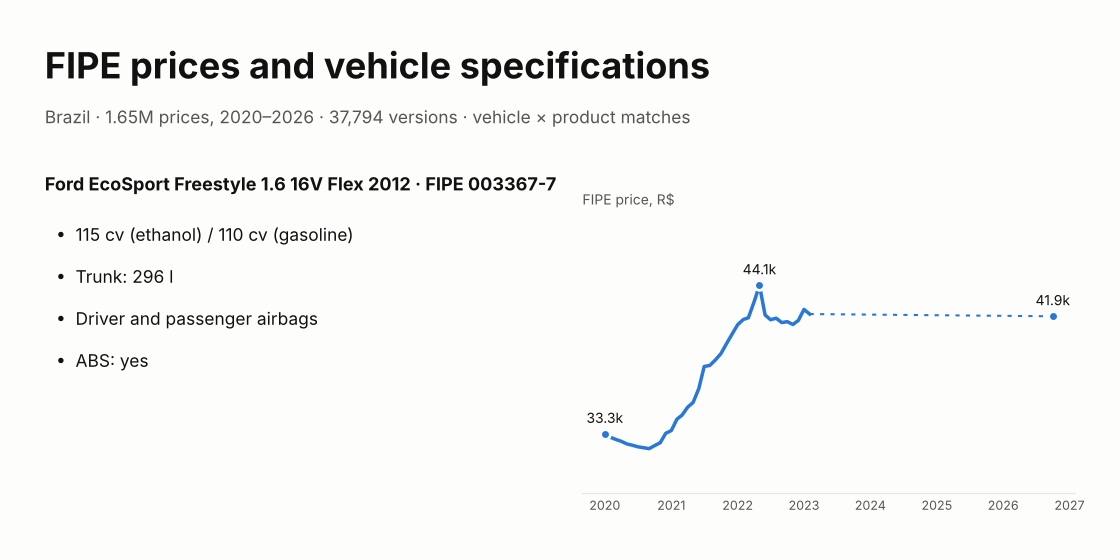
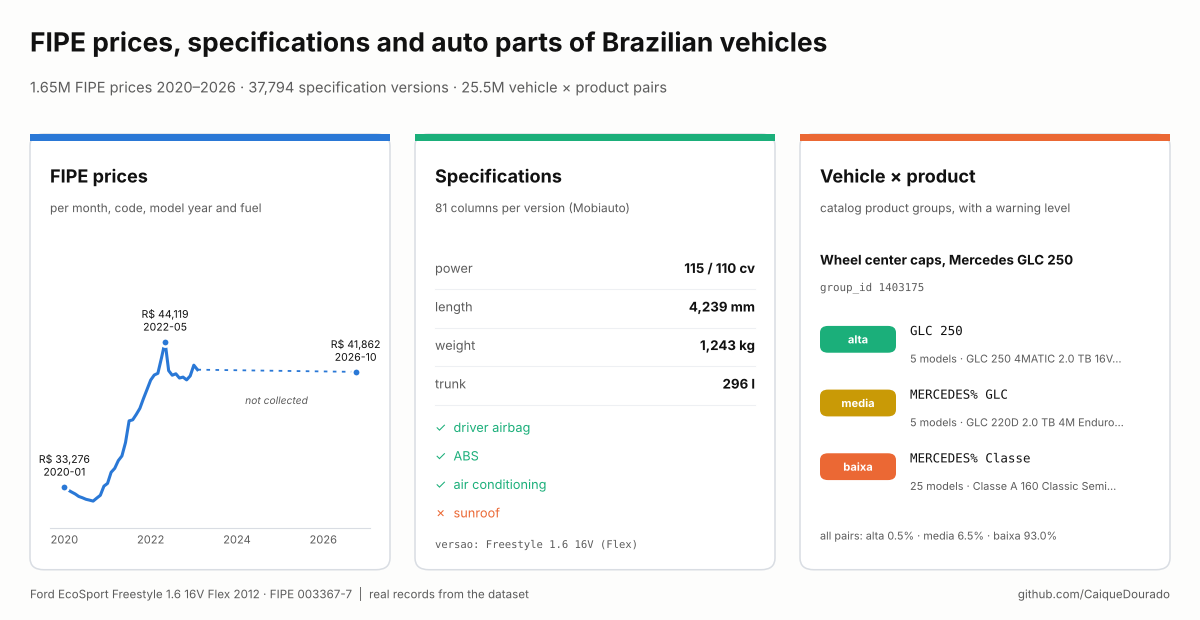
Capa nova: preços, ficha técnica e veículo × produto; no Kaggle abaixo dos JSON

diff --git a/scripts/make_cover.py b/scripts/make_cover.py
@@ -1,34 +1,49 @@
-"""Cover image for README and Kaggle (EN and PT): one car, its FIPE price over time and part of its specifications.
+"""Cover image for README and Kaggle (EN and PT): the three parts of the dataset, each shown with a real record.
 
+    python scripts/make_json.py --fipe 003367-7 --ano 2012 --out docs/example-vehicle.json
     python scripts/make_cover.py
+
+Prices and specifications come from docs/example-vehicle.json (Ford EcoSport Freestyle 2012), the product
+matches from docs/example-product.json (wheel caps for the Mercedes GLC 250), the totals from stats.json.
 """
 
 from __future__ import annotations
 
+import json
 from pathlib import Path
 
 import matplotlib
 
 matplotlib.use("Agg")
-import matplotlib.dates  # noqa: E402
 import matplotlib.pyplot as plt  # noqa: E402
-import pandas as pd  # noqa: E402
+from matplotlib.patches import FancyBboxPatch  # noqa: E402
 
 ROOT = Path(__file__).resolve().parents[1]
-INK, MUTED, LINE, BG, BLUE = "#111111", "#555555", "#e6e6e6", "#fdfdfc", "#2a78d6"
-CODE, YEAR = "003367-7", 2012
+INK, MUTED, LINE, BG, CARD = "#111111", "#5c5c5c", "#d9dde3", "#fdfdfc", "#ffffff"
+BLUE, ORANGE, AQUA = "#2a78d6", "#eb6834", "#1baf7a"
+LEVEL = {"alta": AQUA, "media": "#c99a06", "baixa": ORANGE}
+VERSION = 37057
 TEXT = {
-    "en": {"suffix": "", "title": "FIPE prices and vehicle specifications",
-           "sub": "Brazil · 1.65M prices, 2020–2026 · 37,794 versions · vehicle × product matches",
-           "car": "Ford EcoSport Freestyle 1.6 16V Flex 2012 · FIPE {code}",
-           "specs": ["115 cv (ethanol) / 110 cv (gasoline)", "Trunk: 296 l", "Driver and passenger airbags", "ABS: yes"],
-           "price": "FIPE price, R$"},
-    "pt": {"suffix": ".pt-BR", "title": "Tabela FIPE e ficha técnica de veículos",
-           "sub": "Brasil · 1,65 mi de preços, 2020–2026 · 37.794 versões · casamento veículo × produto",
-           "car": "Ford EcoSport Freestyle 1.6 16V Flex 2012 · FIPE {code}",
-           "specs": ["115 cv (etanol) / 110 cv (gasolina)", "Porta-malas: 296 l", "Airbag do motorista e do passageiro", "ABS: sim"],
-           "price": "Preço FIPE, R$"},
+    "en": {"suffix": "", "title": "FIPE prices, specifications and auto parts of Brazilian vehicles",
+           "sub": "{precos} FIPE prices 2020–2026 · {fichas} specification versions · {pares} vehicle × product pairs",
+           "p1": "FIPE prices", "p1s": "per month, code, model year and fuel",
+           "p2": "Specifications", "p2s": "{cols} columns per version (Mobiauto)",
+           "p3": "Vehicle × product", "p3s": "catalog product groups, with a warning level",
+           "power": "power", "trunk": "trunk", "weight": "weight", "size": "length",
+           "items": ["driver airbag", "ABS", "air conditioning", "sunroof"],
+           "product": "Wheel center caps, Mercedes GLC 250", "all": "all pairs: ", "models": "{n} models", "gap": "not collected",
+           "foot": "Ford EcoSport Freestyle 1.6 16V Flex 2012 · FIPE 003367-7  |  real records from the dataset"},
+    "pt": {"suffix": ".pt-BR", "title": "Preços FIPE, ficha técnica e autopeças de veículos do Brasil",
+           "sub": "{precos} preços FIPE 2020–2026 · {fichas} versões com ficha técnica · {pares} pares veículo × produto",
+           "p1": "Preços FIPE", "p1s": "por mês, código, ano-modelo e combustível",
+           "p2": "Ficha técnica", "p2s": "{cols} colunas por versão (Mobiauto)",
+           "p3": "Veículo × produto", "p3s": "grupos de produto do catálogo, com nível de alerta",
+           "power": "potência", "trunk": "porta-malas", "weight": "peso", "size": "comprimento",
+           "items": ["airbag do motorista", "freios ABS", "ar-condicionado", "teto solar"],
+           "product": "Calotas de centro de roda, Mercedes GLC 250", "all": "todos os pares: ", "models": "{n} modelos", "gap": "não coletado",
+           "foot": "Ford EcoSport Freestyle 1.6 16V Flex 2012 · FIPE 003367-7  |  registros reais do dataset"},
 }
+ITEMS = ["airbag_motorista", "freios_abs", "ar_condicionado", "teto_solar"]
 for family in ("Inter", "DejaVu Sans"):
     try:
         matplotlib.font_manager.findfont(family, fallback_to_default=False)
@@ -38,40 +53,109 @@ for family in ("Inter", "DejaVu Sans"):
         continue
 
 
+def num(n: float, pt: bool, digits: int = 0) -> str:
+    s = f"{n:,.{digits}f}"
+    return s.translate(str.maketrans(",.", ".,")) if pt else s
+
+
+def panel(ax, x, w, color, title, sub):
+    ax.add_patch(FancyBboxPatch((x, 6), w, 52, boxstyle="round,pad=0,rounding_size=1.4", fc=CARD, ec=LINE, lw=1.1))
+    ax.add_patch(FancyBboxPatch((x, 57.2), w, 0.8, boxstyle="square,pad=0", fc=color, ec="none"))
+    ax.text(x + 2, 53, title, fontsize=13, weight="bold", color=INK, va="center")
+    ax.text(x + 2, 49.2, sub, fontsize=8.6, color=MUTED, va="center")
+
+
 def main() -> None:
-    p = pd.read_csv(ROOT / "sample" / "precos_sample.csv", dtype={"codigo_fipe": str}, parse_dates=["referencia"])
-    s = p[(p.codigo_fipe == CODE) & (p.ano_modelo == YEAR)].sort_values("referencia").set_index("referencia").valor
+    stats = json.loads((ROOT / "stats.json").read_text(encoding="utf-8"))
+    veh = json.loads((ROOT / "docs" / "example-vehicle.json").read_text(encoding="utf-8"))
+    prod = json.loads((ROOT / "docs" / "example-product.json").read_text(encoding="utf-8"))
+    year = veh["marcas"][0]["modelos"][0]["anos"][0]
+    prices = year["precos"]
+    ficha = next(f for f in year["fichas"] if f["id_versao"] == VERSION)
+
     for lang, t in TEXT.items():
-        fig = plt.figure(figsize=(11.2, 5.6), dpi=100)
+        pt = lang == "pt"
+        fig = plt.figure(figsize=(12, 6.2), dpi=100)
         fig.patch.set_facecolor(BG)
-        fig.text(0.04, 0.86, t["title"], fontsize=26, weight="bold", color=INK)
-        fig.text(0.04, 0.78, t["sub"], fontsize=12.5, color=MUTED)
-        fig.text(0.04, 0.66, t["car"].format(code=CODE), fontsize=13, weight="bold", color=INK)
-        for i, line in enumerate(t["specs"]):
-            fig.text(0.05, 0.57 - i * 0.075, "•  " + line, fontsize=12.5, color=INK)
-        ax = fig.add_axes([0.52, 0.12, 0.44, 0.5])
-        ax.set_facecolor(BG)
-        gap = s.index.to_series().diff() > pd.Timedelta(days=62)   # February 2023 -> October 2026 was not collected
-        part = gap.cumsum()
-        for k in part.unique():
-            seg = s[part.values == k]
-            ax.plot(seg.index, seg.values / 1000, color=BLUE, linewidth=2.5)
-        for d in s.index[gap.values]:
-            prev = s.index[s.index.get_loc(d) - 1]
-            ax.plot([prev, d], [s[prev] / 1000, s[d] / 1000], color=BLUE, linewidth=1.5, linestyle=(0, (2, 3)))
-        for d in (s.index[0], s.idxmax(), s.index[-1]):
-            ax.annotate(f"{s[d] / 1000:.1f} mil".replace(".", ",") if lang == "pt" else f"{s[d] / 1000:.1f}k", (d, s[d] / 1000),
-                        xytext=(0, 8), textcoords="offset points", ha="center", fontsize=10, color=INK)
-            ax.plot([d], [s[d] / 1000], "o", color=BLUE, markersize=7, markeredgecolor=BG, markeredgewidth=2)
-        for side in ("top", "right", "left"):
-            ax.spines[side].set_visible(False)
-        ax.spines["bottom"].set_color(LINE)
-        ax.tick_params(colors=MUTED, labelsize=9, length=0)
-        ax.set_yticks([])
-        ax.xaxis.set_major_locator(matplotlib.dates.YearLocator())
-        ax.xaxis.set_major_formatter(matplotlib.dates.DateFormatter('%Y'))
-        ax.set_title(t["price"], loc="left", fontsize=10, color=MUTED)
-        ax.set_ylim(s.min() / 1000 * 0.9, s.max() / 1000 * 1.12)
+        ax = fig.add_axes([0, 0, 1, 1])
+        ax.set_xlim(0, 120)
+        ax.axis("off")
+        ax.text(3, 69, t["title"], fontsize=19, weight="bold", color=INK, va="center")
+        sub = t["sub"].format(precos=num(stats["precos"] / 1e6, pt, 2) + (" mi" if pt else "M"),
+                              fichas=num(stats["fichas"], pt),
+                              pares=num(stats["veiculo_produto"] / 1e6, pt, 1) + (" mi" if pt else "M"))
+        ax.text(3, 63.6, sub, fontsize=10.5, color=MUTED, va="center")
+        ax.set_ylim(0, 74)
+
+        # 1. prices
+        x1, w = 3, 36
+        panel(ax, x1, w, BLUE, t["p1"], t["p1s"])
+        cax = fig.add_axes([(x1 + 2) / 120, 11 / 74, (w - 4) / 120, 31 / 74])
+        cax.set_facecolor(CARD)
+        idx = [int(p["referencia"][:4]) * 12 + int(p["referencia"][5:7]) for p in prices]
+        vals = [p["valor"] / 1000 for p in prices]
+        cut = next(i for i in range(1, len(idx)) if idx[i] - idx[i - 1] > 2)
+        cax.plot(idx[:cut], vals[:cut], color=BLUE, lw=2.2)
+        cax.plot(idx[cut - 1:cut + 1], vals[cut - 1:cut + 1], color=BLUE, lw=1.3, ls=(0, (2, 3)))
+        for i in (0, max(range(len(vals)), key=vals.__getitem__), len(vals) - 1):
+            cax.plot(idx[i], vals[i], "o", color=BLUE, ms=6, mec=CARD, mew=1.8)
+            cax.annotate(f"R$ {num(prices[i]['valor'], pt)}\n{prices[i]['referencia']}", (idx[i], vals[i]),
+                         xytext=(0, 8), textcoords="offset points", ha="center", fontsize=7.6, color=INK)
+        cax.text((idx[cut - 1] + idx[cut]) / 2, vals[cut] - 2.4, t["gap"], ha="center", fontsize=7.4,
+                 color=MUTED, style="italic")
+        cax.set_ylim(min(vals) - 2, max(vals) + 5.5)
+        cax.set_xlim(idx[0] - 4, idx[-1] + 4)
+        cax.set_xticks([y * 12 + 1 for y in (2020, 2022, 2024, 2026)])
+        cax.set_xticklabels(["2020", "2022", "2024", "2026"])
+        cax.set_yticks([])
+        for s in ("top", "right", "left"):
+            cax.spines[s].set_visible(False)
+        cax.spines["bottom"].set_color(LINE)
+        cax.tick_params(colors=MUTED, labelsize=8, length=0)
+
+        # 2. specifications
+        x2 = x1 + w + 2.5
+        panel(ax, x2, w, AQUA, t["p2"], t["p2s"].format(cols=stats.get("fichas_colunas", 81)))
+        m, md = ficha["motor"], ficha["medidas"]
+        cv = m["potencia_cv"].replace(" (Etanol) / ", " / ").replace(" (Gasolina)", "") + " cv"
+        rows = [(t["power"], cv), (t["size"], f"{num(md['comprimento_mm'], pt)} mm"),
+                (t["weight"], f"{num(md['peso_kg'], pt)} kg"), (t["trunk"], f"{md['porta_malas_l']} l")]
+        for i, (k, v) in enumerate(rows):
+            y = 42 - i * 4.6
+            ax.text(x2 + 2, y, k, fontsize=9.2, color=MUTED, va="center")
+            ax.text(x2 + w - 2, y, v, fontsize=9.6, color=INK, va="center", ha="right", weight="bold")
+            ax.plot([x2 + 2, x2 + w - 2], [y - 2.5, y - 2.5], color="#eef0f3", lw=0.8)
+        for i, (lab, key) in enumerate(zip(t["items"], ITEMS)):
+            ok = ficha["itens"].get(key) is True
+            ax.text(x2 + 2, 23 - i * 3.4, ("✓  " if ok else "✗  ") + lab, fontsize=9.2,
+                    color=AQUA if ok else ORANGE, va="center")
+        ax.text(x2 + 2, 8.6, f"versao: {ficha['versao']}", fontsize=7.6, color=MUTED, family="monospace")
+
+        # 3. vehicle x product
+        x3 = x2 + w + 2.5
+        w3 = 117 - x3
+        panel(ax, x3, w3, ORANGE, t["p3"], t["p3s"])
+        ax.text(x3 + 2, 43, t["product"], fontsize=9.6, color=INK, weight="bold", va="center")
+        ax.text(x3 + 2, 39.6, f"group_id {prod['grupo']['group_id']}", fontsize=7.8, color=MUTED,
+                family="monospace", va="center")
+        y = 33.5
+        for k in prod["veiculos"]["por_chave"]:
+            c = LEVEL[k["confianca"]]
+            ax.add_patch(FancyBboxPatch((x3 + 2, y - 1.6), 7.6, 3.2, boxstyle="round,pad=0,rounding_size=0.8",
+                                        fc=c, ec="none"))
+            ax.text(x3 + 5.8, y, k["confianca"], fontsize=8, color="white", weight="bold", ha="center", va="center")
+            ax.text(x3 + 11, y + 0.9, k["chave"], fontsize=9, color=INK, family="monospace", va="center")
+            sample = k["modelos"][0]["modelo"]
+            sample = sample if len(sample) <= 26 else sample[:25] + "…"
+            ax.text(x3 + 11, y - 2.3, f"{t['models'].format(n=len(k['modelos']))} · {sample}", fontsize=7.8,
+                    color=MUTED, va="center")
+            y -= 7.6
+
+        tot = stats["veiculo_produto_confianca"]
+        share = " · ".join(f"{k} {num(100 * tot[k] / stats['veiculo_produto'], pt, 1)}%" for k in ("alta", "media", "baixa"))
+        ax.text(x3 + 2, 9.6, t["all"] + share, fontsize=7.8, color=MUTED)
+        ax.text(3, 2.6, t["foot"], fontsize=8.4, color=MUTED)
+        ax.text(117, 2.6, "github.com/CaiqueDourado", fontsize=8.4, color=MUTED, ha="right")
         out = ROOT / "docs" / "img" / f"cover{t['suffix']}.png"
         fig.savefig(out, facecolor=BG)
         plt.close(fig)

diff --git a/docs/kaggle-description.md b/docs/kaggle-description.md
@@ -1,7 +1,5 @@
 **Tabela FIPE e ficha técnica de veículos**: preços FIPE de carros, motos e caminhões desde 2020, ficha técnica de 37.794 versões e casamento veículo × produto. **FIPE vehicle prices and specifications (Brazil)**.
 
-![FIPE prices and vehicle specifications](https://raw.githubusercontent.com/CaiqueDourado/fipe-ficha-tecnica-veiculos/main/docs/img/cover.png)
-
 The FIPE table is Brazil's monthly reference of used and new vehicle prices (insurance, taxes, car sales). This dataset has three parts:
 
 - **FIPE prices**: 1.65 million prices per month, FIPE code, model year and fuel, January 2020 to February 2023 (the author's collection for his vehicle sites) plus October 2026 from the official FIPE API.
@@ -21,6 +19,8 @@ The same pairs from the product side: one product group of the catalog and the v
 ![One product, the vehicles matched to it](https://raw.githubusercontent.com/CaiqueDourado/fipe-ficha-tecnica-veiculos/main/docs/img/product-json.png)
 
 The whole record: https://github.com/CaiqueDourado/fipe-ficha-tecnica-veiculos/blob/main/docs/example-product.json
+
+![FIPE prices, specifications and auto parts of Brazilian vehicles](https://raw.githubusercontent.com/CaiqueDourado/fipe-ficha-tecnica-veiculos/main/docs/img/cover.png)
 
 ![Used vehicle prices, January 2020 = 100](https://raw.githubusercontent.com/CaiqueDourado/fipe-ficha-tecnica-veiculos/main/docs/img/used-prices.png)
 

diff --git a/README.pt-BR.md b/README.pt-BR.md
@@ -7,7 +7,7 @@
 
 [Read in English](README.md)
 
-![Tabela FIPE e ficha técnica de veículos](docs/img/cover.pt-BR.png)
+![Preços FIPE, ficha técnica e autopeças de veículos do Brasil](docs/img/cover.pt-BR.png)
 
 Dados de veículos do Brasil em três partes:
 

diff --git a/README.md b/README.md
@@ -7,7 +7,7 @@
 
 [Leia em português](README.pt-BR.md)
 
-![FIPE prices and vehicle specifications](docs/img/cover.png)
+![FIPE prices, specifications and auto parts of Brazilian vehicles](docs/img/cover.png)
 
 Brazilian vehicle data in three parts:
 
